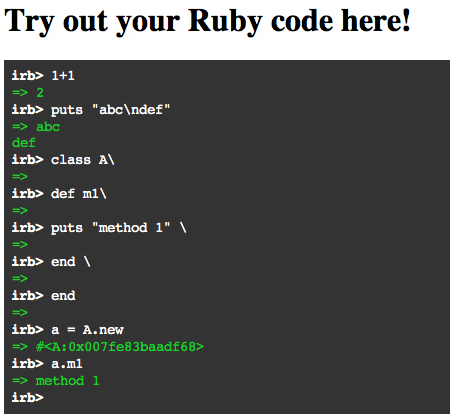
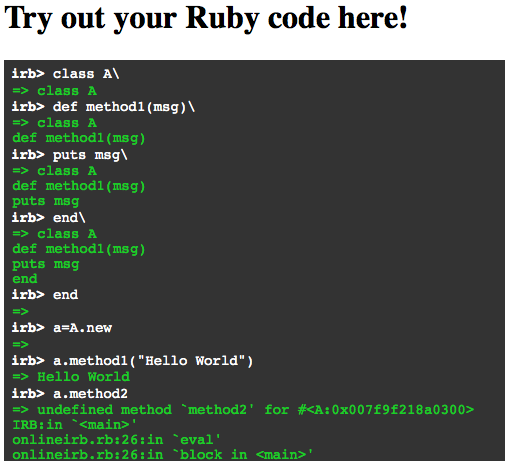
clean code

Changed region(s): [[0.0, 0.1159, 1.0, 1.0], [0.0, 0.0, 0.9333, 0.087], [0.5289, 0.8696, 0.9333, 0.8986]]

diff --git a/onlineirb.rb b/onlineirb.rb
@@ -6,38 +6,35 @@ __binding__ = binding
 
 
 get '/run' do
-  sio = StringIO.new
+  unless defined? CODES
+    CODES = ""
+  end
+  
+  stdo = StringIO.new
   
   code = CGI.unescapeHTML(params[:code])
 
   if code[-1] == '\\'
     CODES += code[0..-2] + "\n "
-    return nil
+    return CODES
   else
-    if defined? CODES
-      CODES += code
-    else
-      CODES = code
-    end
+    CODES += code
   end
   
   begin
-    old_stdout, $stdout = $stdout, sio
-    ret = __binding__.eval(CODES, "IRB", 0)
+    old_stdout, $stdout = $stdout, stdo
+    __binding__.eval(CODES, "IRB", 0)
   rescue Exception => e
-    ret = e.message + "-------------------"
-    ret += e.backtrace.inspect
+    ret = "#{e.message}\n"
+    e.backtrace.each do |l|
+      ret += "#{l}\n"
+    end
+    return ret
   ensure
     CODES.clear
     $stdout = old_stdout # restore stdout
   end
-  
-  if ret
-    ret = ret.inspect + "\n" + sio.string
-  else
-    ret = sio.string
-  end
-  ret
+  return stdo.string
 end
 
 get '/' do

diff --git a/README.md b/README.md
@@ -15,5 +15,6 @@ You can clear the console by:
 
     irb> clear
   
+You also can use ending \ to continue programming, the whole bunch of code would be executed at the statement without \ ending.
 
 ![screen shot](online_irb/raw/master/screenshot.png "Screen Shot")
